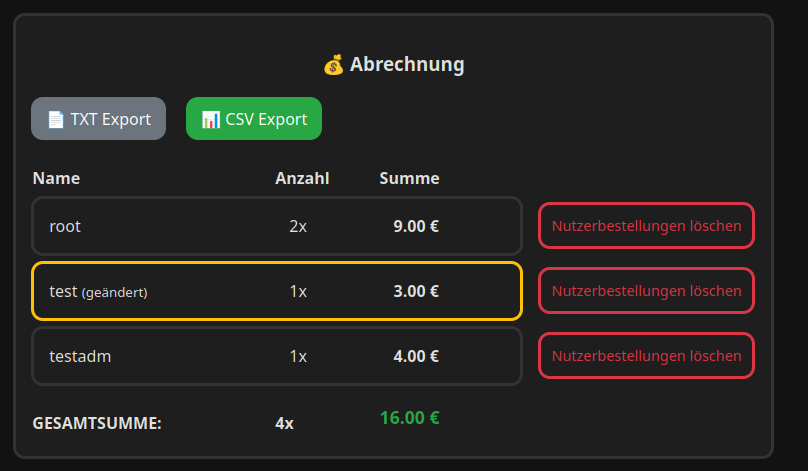
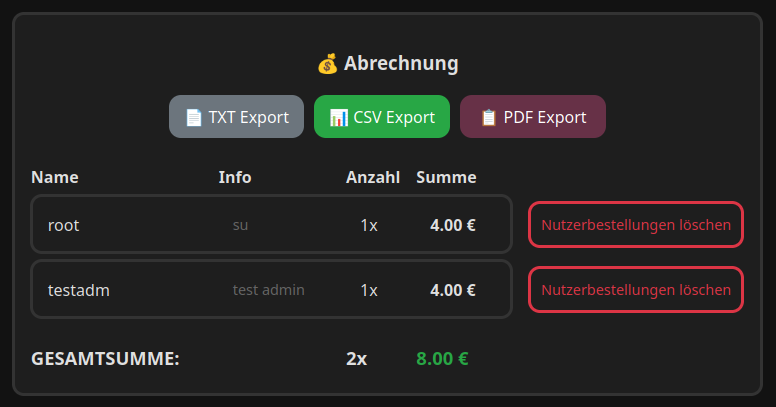
superuser is allowed to manage permissions
now the superuser can manage the permissions of users

diff --git a/src/App.tsx b/src/App.tsx
@@ -756,7 +756,7 @@ export default function WeeklyMealPlanner() {
       	  <div style={{ ...cardStyle, border: "3px solid #ffc107", background: "none" }}>
         	<h3>⚙ Wartungssarbeitensteuerung</h3>
         	<p style= {{ fontSize: "1.1em" }}> 
-        	Aktueller Status:
+        	Wartungarbeitenvorbereitung:
         	  <div style={{ color: data.maintenance_active ? "#28a745" : "#dc3545"}}>
           	  	  <b> {data.maintenance_active ? "● Aktiv" : "○ Inaktiv"}</b>
         	  </div>
@@ -891,43 +891,36 @@ function UserManagement({ users, onCreate, onDelete, onResetToken, onUpdateField
         <thead>
           <tr>
             <th>Name</th>
-            <th>Zusatz-Info</th>
             <th>Status</th>
+            <th>Zusatz-Info</th>
             <th>Aktion</th>
           </tr>
         </thead>
         <tbody>
           {users.map((u: User) => (
             <tr key={u.id}>
-              <td>{u.name}</td>
-              {/* display additional information */}
-              <td> 
-              <div style={{ display: "flex", alignItems: "center", gap: "10px" }}>
-    			<span style={{ color: "#666", fontStyle: "italic" }}>
-      			  {u.info || "-"}
-    			</span>
-              
-              	{/* only superusers can see the Edit button for the info field */}
-    			{currentSuperuser && (
-      			  <button 
-        			onClick={() => {
-          			const newInfo = prompt(`Neue Zusatzinfo für ${u.name} (z.B. Büro):`, u.info || "");
-          			if (newInfo !== null) onUpdateField(u.id, "info", newInfo);
-        			}}
-        			style={{ 
-          			background: "none", 
-          			border: "3px dashed #007bff", 
-          			cursor: "pointer", 
-          			color: "#007bff",
-          			padding: "2px 5px",
-          			marginLeft: "15px"
-        			}}>
-        			  Ändern
-      				</button>
-    			  )}
-              </div>
+              <td>
+                {u.name}
               </td>
-              <td>{u.is_superuser ? "Superuser" : u.is_admin ? "Admin" : "User"}</td>
+              
+              <td>
+      			{/* User Status Info*/}
+      			<label style={{ cursor: currentSuperuser ? "pointer" : "default" }}>
+        		  <input 
+          		    type="checkbox" 
+          		    checked={u.is_admin} 
+          		    disabled={!currentSuperuser || u.is_superuser}
+          		    onChange={(e) => {
+            		  if (currentSuperuser) {
+              		    onUpdateField(u.id, "is_admin", e.target.checked);
+            		  }
+          		    }}
+        		  /> 
+        		    {u.is_admin ? " Admin" : " Nutzer"}
+      			</label>
+      			{u.is_superuser && <span style={{ marginLeft: "5px", color: "#007bff" }}>(Superuser)</span>}
+    		  </td>
+                           
               <td>
                 <div style={{ display: "flex", gap: "10px" }}>
                   
@@ -945,6 +938,34 @@ function UserManagement({ users, onCreate, onDelete, onResetToken, onUpdateField
                       }}
                       style={{ ...smallDeleteBtn, borderColor: "#007bff", color: "#007bff" }}>Token Reset</button>
                   )}
+                </div>
+              </td>
+              
+              <td> 
+                <div style={{ display: "flex", alignItems: "center", gap: "10px" }}>
+    			  <span style={{ color: "#666", fontStyle: "italic" }}>
+      			    {u.info || "-"}
+    			  </span>
+              
+              	  {/* only superusers can see the 'Ändern' button for the info field */}
+    			  {currentSuperuser && (
+      			    <button 
+        			  onClick={() => {
+          			  const newInfo = prompt(`Neue Zusatzinfo für ${u.name} (z.B. Büro):`, u.info || "");
+          			  if (newInfo !== null) onUpdateField(u.id, "info", newInfo);
+        			  }}
+        			  style={{ 
+          			  background: "none", 
+          			  border: "2px dashed #007bff", 
+          			  cursor: "pointer", 
+          			  color: "#007bff",
+          			  padding: "7px",
+          			  marginLeft: "15px",
+          			  fontSize: "0.9em"
+        			  }}>
+        			    Ändern
+      				</button>
+    			  )}
                 </div>
               </td>
             </tr>
